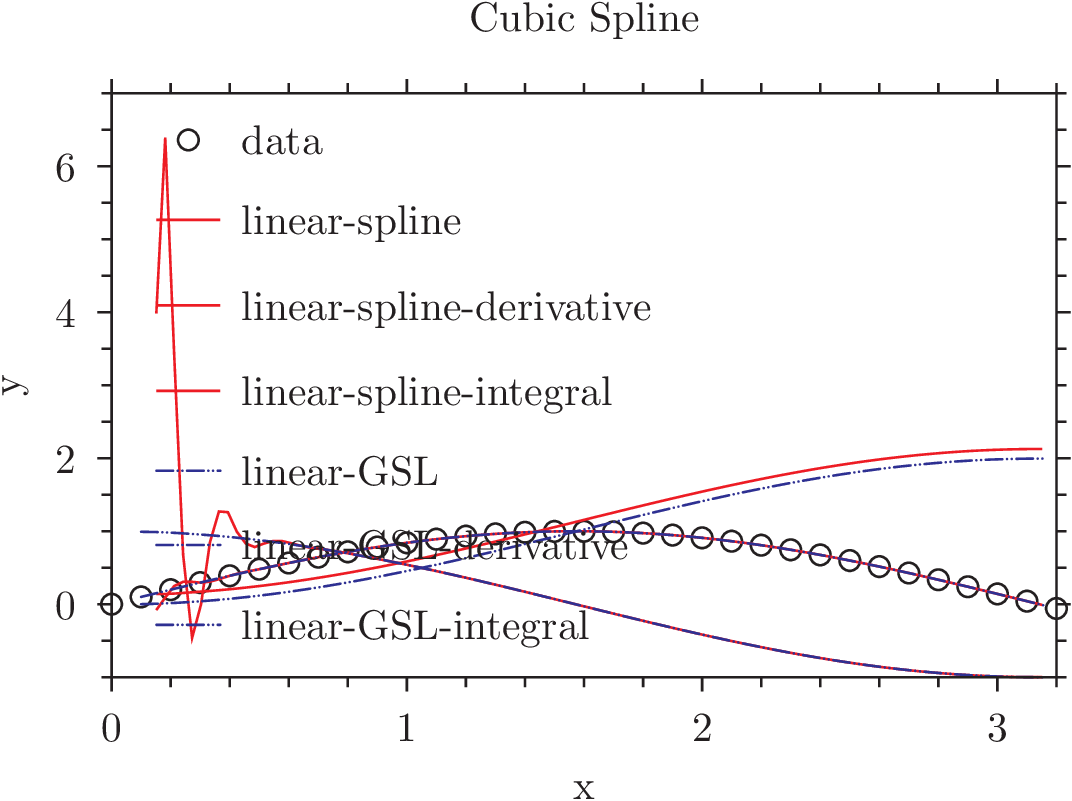
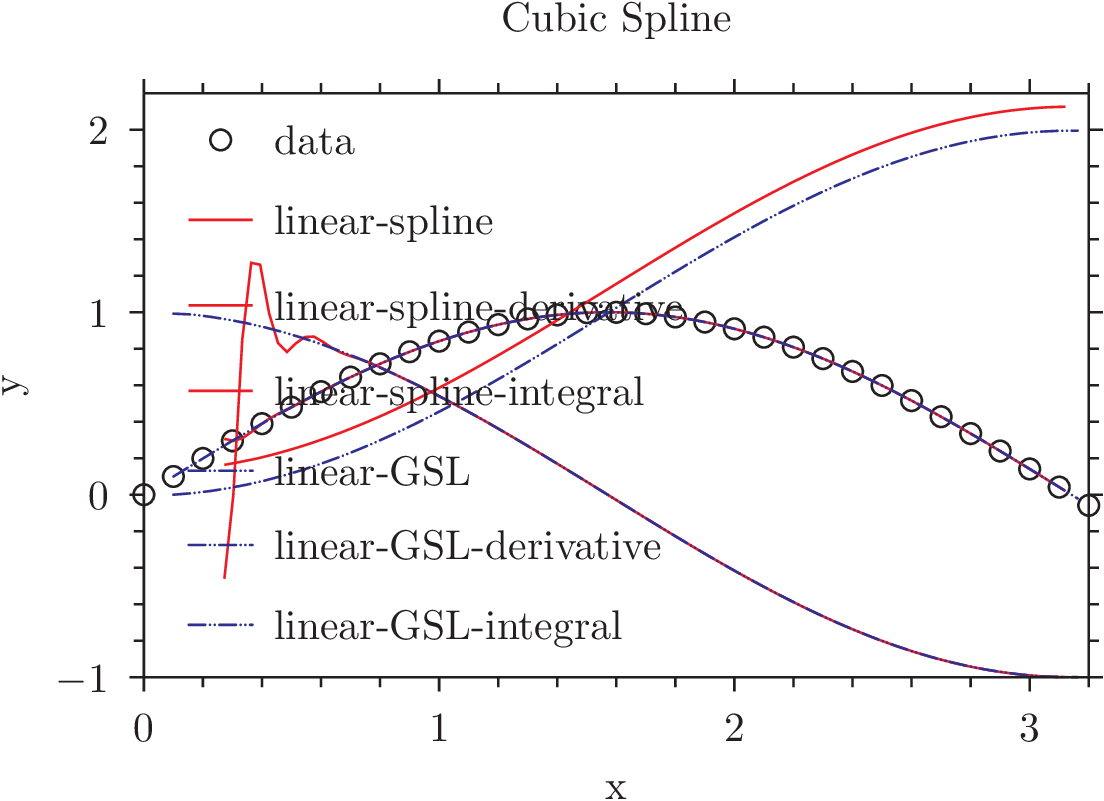
Initial commit

diff --git a/homework/Interpolation1/main.c b/homework/Interpolation1/main.c
@@ -200,9 +200,9 @@ int main(){
 
 
 	//Linspace
-	int N=100; double z[N];
+	int N=95; double z[N];
 	for(i=0;i<N+1;i++){
-	z[i-1]=(double)(4+i)/33;
+	z[i-1]=(double)(8+i)/33;
 	}
 
 	// lin data
